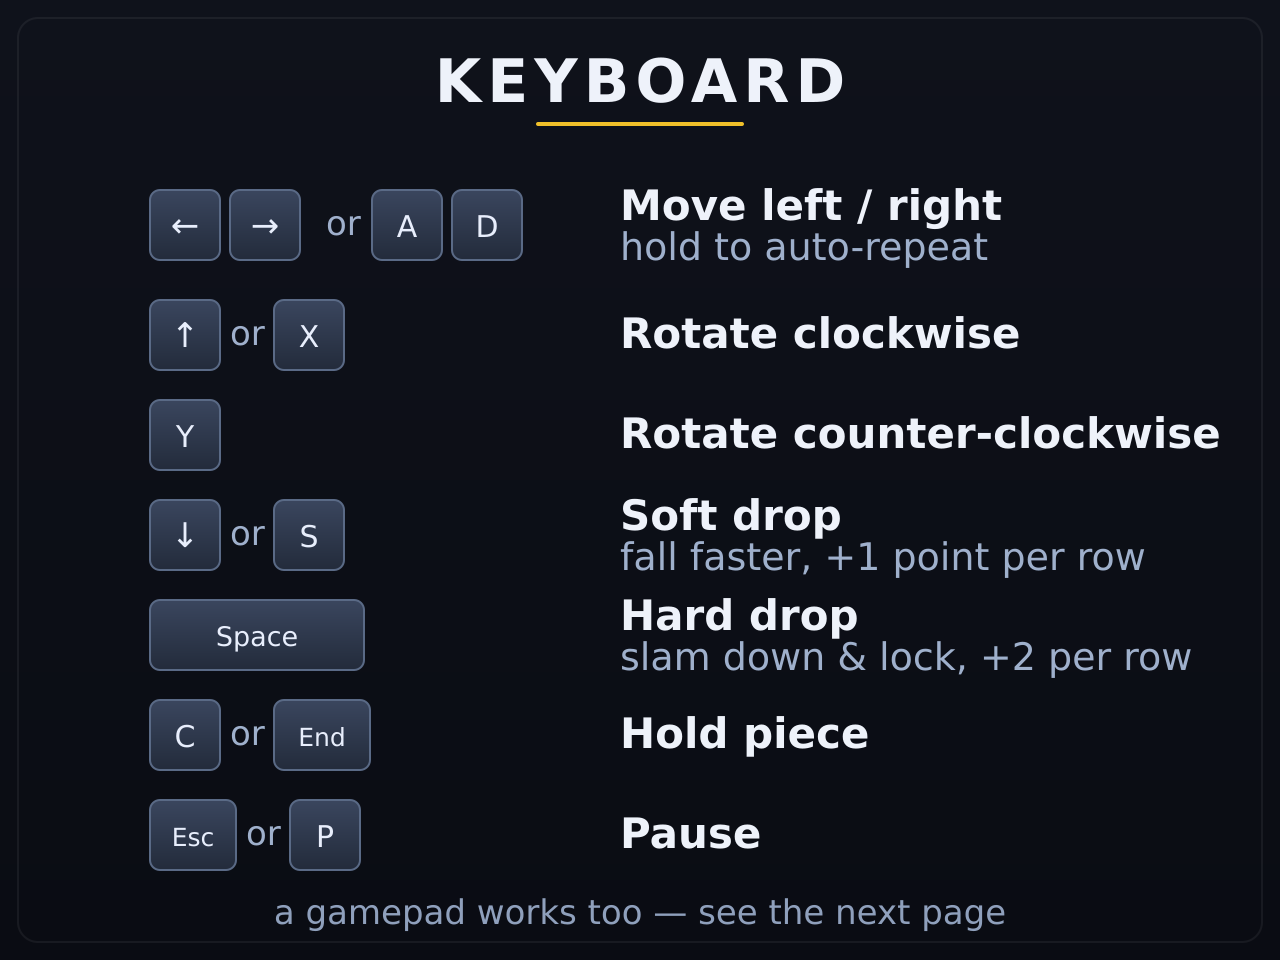
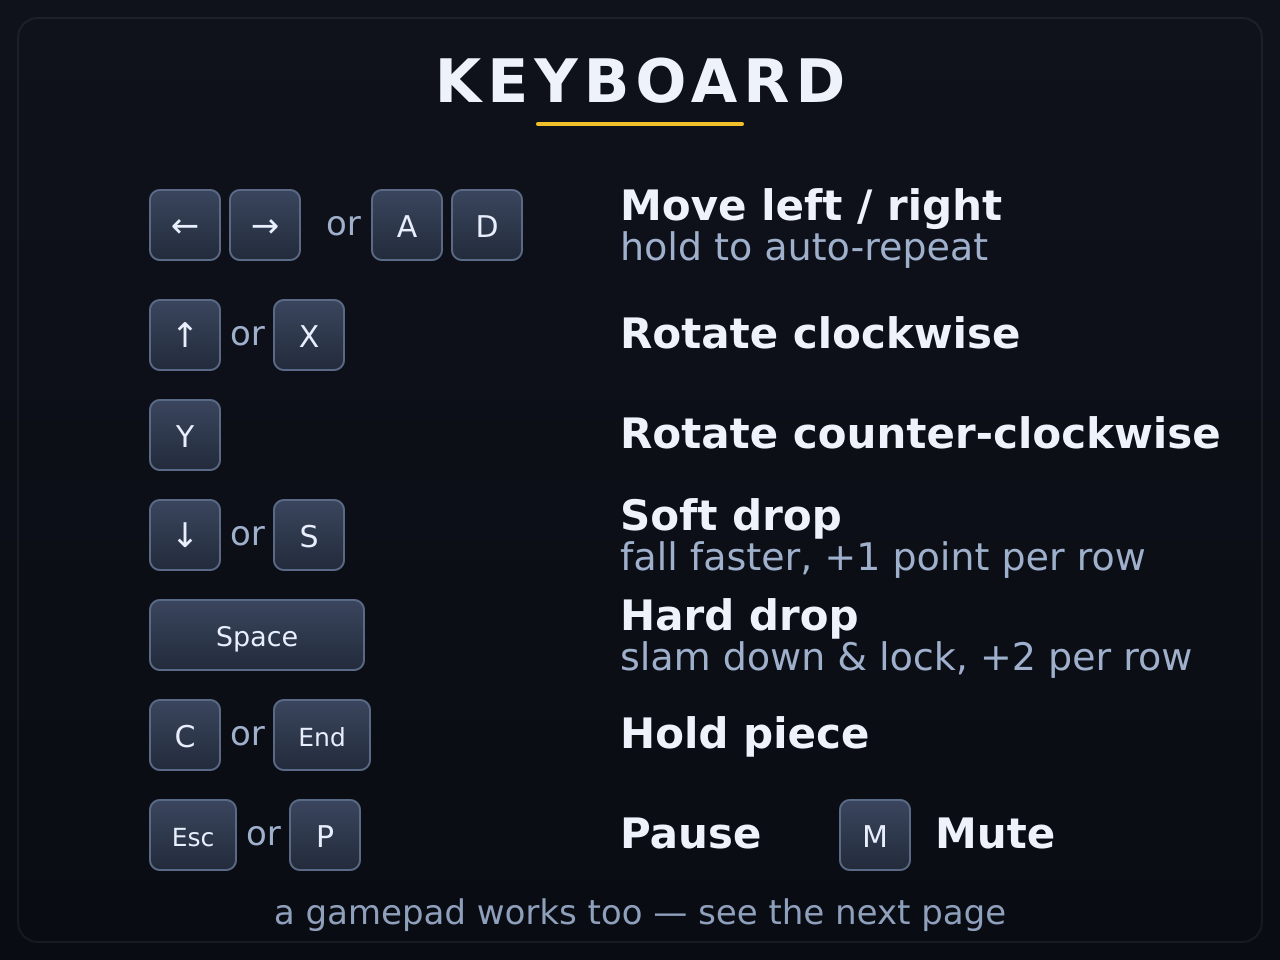
Mute-Button neben Pause (M / Select), HUD-Texte rücken zur Mitte, Hilfe ergänzt

Changed region(s): [[0.6562, 0.8125, 0.8438, 0.9062]]

diff --git a/TODO.md b/TODO.md
@@ -6,6 +6,8 @@ offene Punkte stehen ggf. noch in `CLAUDE.md`.
 
 ## Offen
 
+- [x] 2026-10-06 v1.3.0 Mute-Button (globale CLAUDE.md Punkt 21): frostiger Lautsprecher-Button links neben Pause (`mute_button.gd`, feste Position in `main.gd::_layout()`), Taste M + Pad-Select (Action `mute` in project.godot), `Snd.set_muted()` (Master-Bus, `[sound] muted` in settings.cfg); Score/LEVEL/LINES werden in der Lücke zwischen Hold-Kasten und Mute-Button zentriert (rücken etwas zur Mitte); Hilfeseiten Buttons/Keyboard/Gamepad ergänzt.
+
 - [ ] Alte, von Hand hochgeladene Dateien auf itch.io löschen (macht der Nutzer: https://itch.io/game/edit/…, Seite `tetris-clone`) und beim Upload des Channels `web` „This file will be played in the browser“ setzen.
 
 Ideen für später (Einschätzung 2026-10-03, noch nicht beauftragt):

diff --git a/CLAUDE.md b/CLAUDE.md
@@ -297,3 +297,13 @@ Pad-Signalen: `sendevent /dev/input/event3` (BTN_SOUTH 304 = A, BTN_EAST
 Bei Nutzung der Aseprite-MCP-Pro-Tools (`mcp__aseprite-mcp-pro__*`) dem
 Pixel-Art-Skill-Guide folgen:
 @/home/bernd/GodotDev/learn_2d_gamedev_godot_4_0.57.0_linux/aseprite-mcp-pro-server/skills.md
+
+## Mute-Button (v1.3.0)
+
+`mute_button.gd` (`MuteButton`, frostig wie `PauseButton`), links neben dem
+Pause-Button, Position/Größe explizit in `main.gd::_layout()` (nie Anker).
+Score/LEVEL/LINES zentrieren sich in der Lücke zwischen Hold-Kasten und
+Mute-Button (`left_lim`/`right_lim`). `Snd.set_muted()/toggle_mute()` +
+Signal `mute_changed`; Action `mute` (M + Pad-Select) steht in `project.godot`
+und greift in jedem Zustand (`main.gd::_unhandled_input`). Hilfe: `hud.svg`,
+`keyboard.svg`, `gamepad.svg`.
